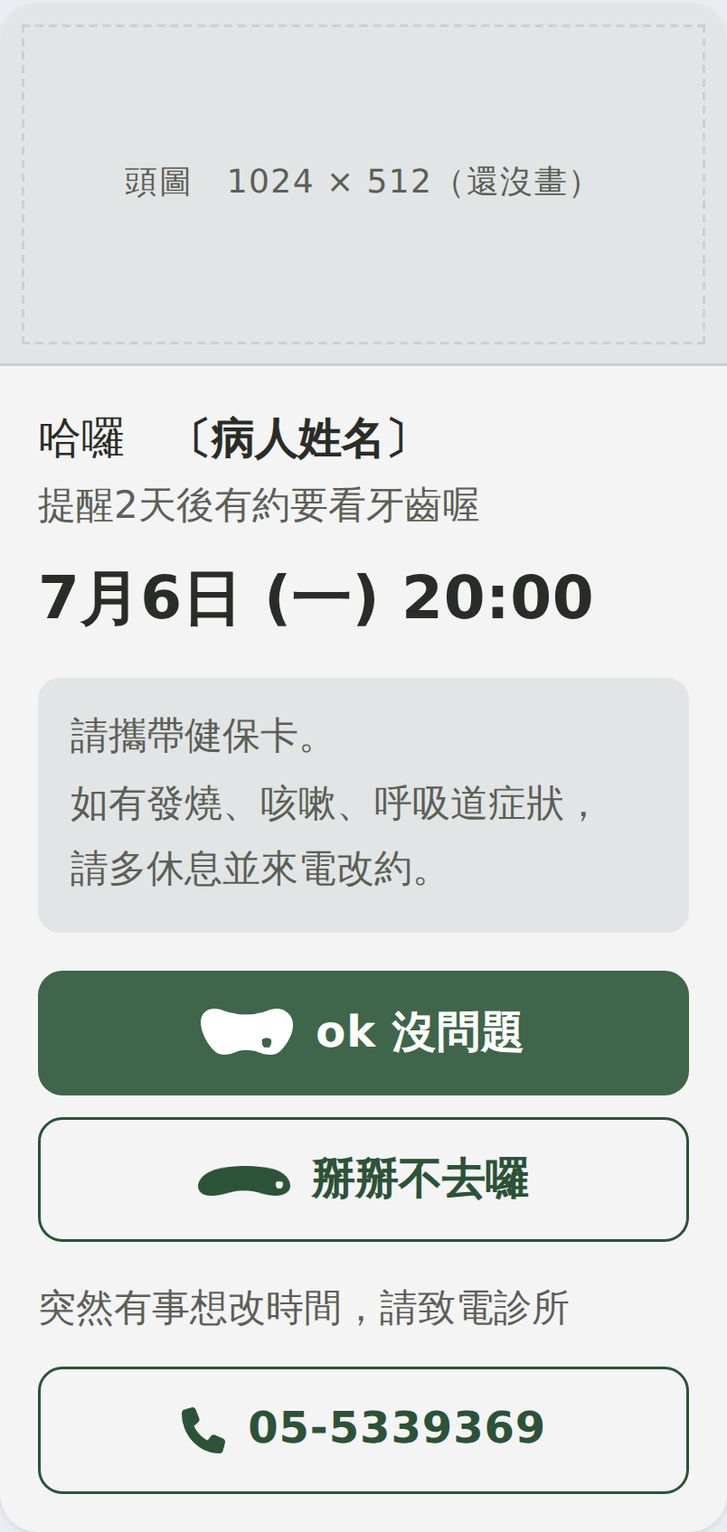
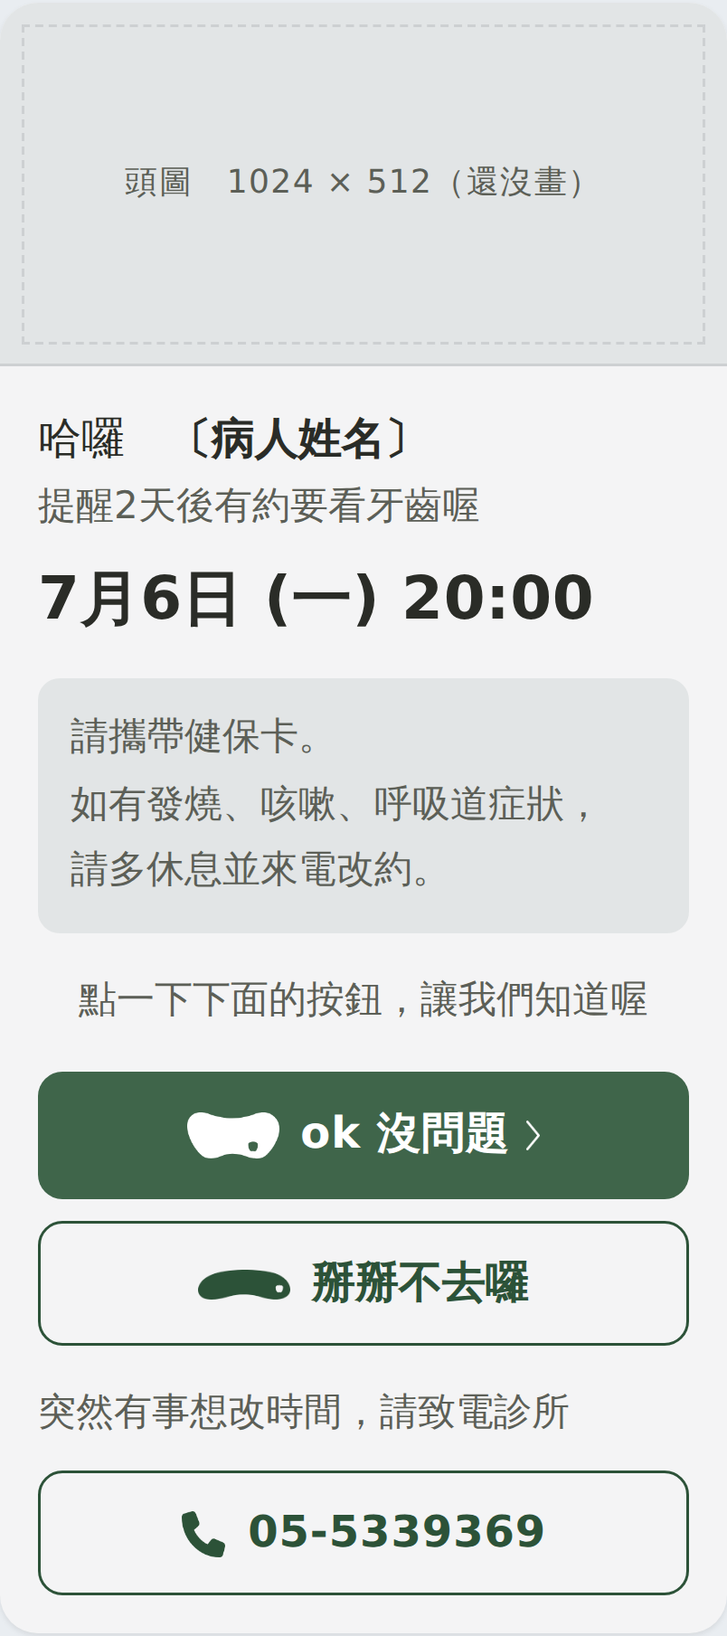
提醒卡第四輪：把「要點下去的感覺」拆成三條尺
使用者：「好像少了要病患點下去的感覺，原來的版本有說點擊回覆，
按鈕上也有手勢提示。」量出來是三件各自獨立的事，修一個不會治好
另外兩個：①有沒有一句話開口叫他點（現況有、我們拿掉了，影響最大）
②按鈕上的「往前走」記號（現況是 👉）③按鈕看起來像不像鈕
（現況是藥丸，我們是圓角方框，而方框在這一站是「框」的語彙）。

還有第四件而且畫面上補不回來：主鈕是「可點的 box」不是 Flex 的
button（button 放不進圖示，而他要 logo），box 沒有按壓效果——
「點下去的感覺」有一半是按下那一瞬間的回饋，那一半為了 logo 已經
換掉了。LINE 對可點的 box 會不會給按壓反白我們沒有實機驗過，
加進廠商那幾題；「主鈕的形狀」最後一格「真的按鈕（沒 logo）」
就是這個取捨，擺出來讓他比、不是建議。

角形用站上自己那一條（往下滑／回到最上面／繼續讀同一條）轉成朝右，
不打「›」——那個字在 Android 與 iOS 上長得不一樣。筆畫的形狀
getBBox() 量不到（不含 stroke），外框自己算；空圖的門檻從位元組
改成看墨佔多少。角形跟著字走不是跟著標誌走：16px 的字配 11px 高
→ 5.3px 寬。

現況那句話搬到 268px 會折出孤字「診 ↓」（三個寬度都是）——那句是在
診所端後台 348px 的框裡看的。

預設開在建議的那一組：601.5px、孤字 0、水平溢出 0、JS 錯誤 0，
仍比現況 615px 矮而且帶著頭圖。切換條收掉三把已定案的尺，
網址參數仍然吃得到。

Claude-Session: https://claude.ai/code/session_01UiTa6aiLj4tvM4QQAkTm2r

diff --git a/preview/line-remind/index.html b/preview/line-remind/index.html
@@ -166,6 +166,29 @@ h1{font-size:1rem;font-weight:700;letter-spacing:.02em}
   line-height:1.4}
 .pv-new .btn img{flex:none;display:block;width:34px}
 .pv-new .btn span{font-size:16px;font-weight:700;letter-spacing:.02em}
+/* ---- 「點下去」的三件事（2026-09-04 深夜第四輪）------------------------
+   使用者：「好像少了要病患點下去的感覺，原來的版本有說點擊回覆，按鈕上也有手勢提示」。
+   ⚠⚠ 拆開來是**三個各自獨立的量**（同第九節第 17 條那個淡出：一句話講到三件事）：
+     ① 有沒有一句話**開口叫他點**（現況有，我們拿掉了）
+     ② 按鈕上有沒有「往前走」的記號（現況是 👉）
+     ③ 按鈕**看起來像不像按鈕**（現況是藥丸，我們是圓角方框）
+   修一個不會治好另外兩個，所以切換條上是三條尺。 */
+.pv-new .cta{font-size:14px;line-height:1.7;color:var(--ink-soft);text-align:center;
+  margin-top:14px}
+/* 現況那一句：紅字、粗體、上下各一個箭頭。⚠ 對照用，站上不會這樣寫 */
+.pv-new .cta.asis{color:#d0021b;font-weight:700}
+/* 角形＝站上「往下滑／回到最上面」那顆轉成朝右，由 remind-marks.mjs 產。
+   ⚠ 高度跟著**字**走不是跟著標誌走（站上那一族是字高的 .58~.7）：
+     16px 的字配 11px 高，長寬比 0.4828 算出 5.3px 寬。 */
+.pv-new .btn .chev,
+.pv-new .nob .chev,
+.pv-new .tel .chev{flex:none;display:block;width:5.3px;height:11px;margin-left:-2px}
+/* 主鈕的三種形狀。⚠⚠ `real` 那一格是**真的 Flex button** —— 它有 LINE 內建的
+   按壓效果，但 **button 只有一個 label、放不了圖示**（第十一之二節），
+   所以那一格的 logo 一定會消失。這是取捨不是漏做。 */
+.pv-new .btn.pill{border-radius:30px;padding:16px 12px}
+.pv-new .btn.real{border-radius:9px;padding:14px 12px}
+.pv-new .btn.real img{display:none}
 /* 「掰掰不去囉」：2026-09-04 使用者指定**加 logo**（shape_r2c3 嘴巴倒過來）
    ＋ 字改成他自己寫的「掰掰不去囉」（原本是我擬的「我不能到」）。
    ⚠ 它是次要動作，和主鈕**對等**會把「請你確認」這件事稀釋掉 —— 所以做成
@@ -271,10 +294,10 @@ h1{font-size:1rem;font-weight:700;letter-spacing:.02em}
 <div class="pv-bar" id="pv-bar">
   <button class="fold" id="pv-fold" aria-expanded="true">收起</button>
   <div class="r"><span class="lb">版本</span><span id="sw-v"></span></div>
-  <div class="r" id="row-h"><span class="lb">頭圖</span><span id="sw-h"></span></div>
+  <div class="r" id="row-c"><span class="lb">叫他點的那句</span><span id="sw-c"></span></div>
+  <div class="r" id="row-g"><span class="lb">角形</span><span id="sw-g"></span></div>
+  <div class="r" id="row-s"><span class="lb">主鈕的形狀</span><span id="sw-s"></span></div>
   <div class="r" id="row-no"><span class="lb">掰掰不去囉</span><span id="sw-n"></span></div>
-  <div class="r" id="row-w"><span class="lb">24小時</span><span id="sw-w"></span></div>
-  <div class="r" id="row-k"><span class="lb">就診須知</span><span id="sw-k"></span></div>
 </div>
 
 <span class="pv-probe" id="pv-probe"></span>
@@ -357,10 +380,38 @@ h1{font-size:1rem;font-weight:700;letter-spacing:.02em}
        切到「不放圖」時它會回來，識別不會整個消失。 */
   var HERO = { y: { name: "預留位置" }, n: { name: "不放圖" } };
 
+  /* ---- 「點下去的感覺」三條尺（2026-09-04 深夜第四輪）------------------
+     ① 叫他點的那一句。⚠ 文字是**我擬的**，這張卡其餘每一個字都是你寫的，
+        這一句你要換就換（現況那句是廠商的，放在最後一格只當對照）。 */
+  var CTA = {
+    none: { name: "不放", text: "" },
+    a:    { name: "請點下面的按鈕回覆", text: "請點下面的按鈕回覆" },
+    b:    { name: "點一下…讓我們知道喔", text: "點一下下面的按鈕，讓我們知道喔" },
+    asis: { name: "現況那句", text: "\u2193 請點擊下方按鈕，回覆是否前往看診 \u2193" }
+  };
+  /* ② 按鈕上的「往前走」記號。角形＝站上那顆轉成朝右（remind-marks.mjs 產）。
+     ⚠ `hand` 那一格是現況的 👉，**對照用** —— 站上全站 0 個 emoji，面板會標出來。 */
+  var CHEV = {
+    none: { name: "不放" },
+    main: { name: "只有主鈕" },
+    all:  { name: "三顆都放" },
+    hand: { name: "主鈕用 👉" }
+  };
+  /* ③ 主鈕的形狀。⚠⚠ `real` ＝ 真的 Flex button：有 LINE 內建的按壓效果，
+     但 **button 放不了圖示**，所以 logo 會消失（第十一之二節）。 */
+  var SHAPE = {
+    box:  { name: "圓角方框" },
+    pill: { name: "藥丸" },
+    real: { name: "真的按鈕（沒 logo）" }
+  };
+
   /* ⚠⚠ 預設 wa="none"、nb="line"：2026-09-04 使用者指定「粉紅底整個拿掉」、
      「藍灰底整個拿掉」、取消鈕加 logo。24 小時那一段的尺**留著**（它是他自己
      帶進來的事實，要放回去按一下就有），但預設不出現。 */
-  var v = "new", nb = "line", wa = "none", kn = "two", hr = "y";
+  /* ⚠ 預設就開在**我建議的那一組**（叫他點的那一句 ＋ 主鈕的角形，形狀不動）——
+     要看回上一版你點頭的樣子，把「叫他點的那句」切到「不放」、角形切到「不放」。 */
+  var v = "new", nb = "line", wa = "none", kn = "two", hr = "y",
+      cta = "b", cv = "main", sh = "box";
 
   /* 網址參數（⚠ 正規式一定要寫 [a-z0-9]+，寫 [a-z]+ 會吃不到帶數字的值） */
   (function () {
@@ -372,6 +423,7 @@ h1{font-size:1rem;font-weight:700;letter-spacing:.02em}
     v  = (q.match(/[?&]v=(old|new)/) || [])[1] || v;
     nb = pick("n", NOB, nb); wa = pick("w", WARN, wa);
     kn = pick("k", KNOW, kn); hr = pick("h", HERO, hr);
+    cta = pick("c", CTA, cta); cv = pick("g", CHEV, cv); sh = pick("s", SHAPE, sh);
   })();
 
   /* 電話那一行在 Flex 裡**不會**自動變成可以撥的（純文字訊息才會）——
@@ -417,19 +469,46 @@ h1{font-size:1rem;font-weight:700;letter-spacing:.02em}
     if (kn !== "none") h += '<p class="box know">' + KNOW[kn].text + '</p>';
     if (wa === "box")  h += '<p class="box warn">' + WARN_TEXT + '</p>';
     if (wa === "line") h += '<p class="warnline">' + WARN_TEXT + '</p>';
-    /* 主鈕：可點的 box（Flex 的 button 放不了 logo），白色標誌 ＋「ok 沒問題」 */
-    h += '<span class="btn"><img src="../line-welcome/mark-white.png" alt="">'
-      +  '<span>ok 沒問題</span></span>';
+    /* ① 叫他點的那一句，排在主鈕正上方 */
+    if (cta !== "none")
+      h += '<p class="cta' + (cta === "asis" ? " asis" : "") + '">' + CTA[cta].text + '</p>';
+    /* 主鈕：可點的 box（Flex 的 button 放不了 logo），白色標誌 ＋「ok 沒問題」。
+       ⚠ `real` 那一格是真的 button，logo 由 CSS 藏起來（Flex 那邊是根本放不進去）。 */
+    var wc = '<img class="chev" src="mark-chev-white.png" alt="">';
+    var dc = '<img class="chev" src="mark-chev-deep.png" alt="">';
+    h += '<span class="btn' + (sh === "box" ? "" : " " + sh) + '">'
+      +  '<img src="../line-welcome/mark-white.png" alt="">'
+      +  '<span>ok 沒問題' + (cv === "hand" ? " \ud83d\udc49" : "") + '</span>'
+      +  (cv === "main" || cv === "all" ? wc : "") + '</span>';
     if (nb !== "drop") {
       h += '<span class="nob' + (nb === "text" ? " plain" : "") + '">'
-        +  '<img src="mark-nogo.png" alt=""><span>掰掰不去囉</span></span>';
+        +  '<img src="mark-nogo.png" alt=""><span>掰掰不去囉</span>'
+        +  (cv === "all" ? dc : "") + '</span>';
     }
     /* 「突然有事想改時間，請致電診所」＋ 電話鈕（2026-09-04 使用者指定）——
        ⚠ 這一句和上面那顆按鈕**不是二選一**，是兩件事接在一起：
          按鈕 ＝ 告訴我們你不會來；電話 ＝ 重新約時間。 */
     h += '<p class="telnote">突然有事想改時間，請致電診所</p>'
-      +  '<span class="tel"><img src="mark-tel.png" alt=""><span>' + TEL + '</span></span>';
+      +  '<span class="tel"><img src="mark-tel.png" alt=""><span>' + TEL + '</span>'
+      +  (cv === "all" ? dc : "") + '</span>';
     return h + '</div></div>';
+  }
+
+  /* 這張卡現在給了幾個「可以點」的線索。⚠ 這是**這一輪的判準**：
+     使用者說「少了要點下去的感覺」，那就要數得出來現在有幾個、加了之後有幾個。 */
+  function cues() {
+    var a = [];
+    if (cta !== "none") a.push("叫他點的那一句");
+    /* ⚠⚠ 主鈕切到「真的按鈕」時，**圖示一個都放不進去** —— logo 與角形一起消失
+       （Flex 的 button 只有一個文字標籤）。所以那時 ② 這條尺對主鈕是無效的。 */
+    if (cv === "hand") a.push("👉");
+    else if (cv === "main") a.push(sh === "real" ? "主鈕的角形（⚠ 真的按鈕放不進去）"
+                                                : "主鈕的角形");
+    else if (cv === "all") a.push(sh === "real" ? "另外兩顆的角形（⚠ 主鈕放不進去）"
+                                                : "三顆的角形");
+    if (sh === "pill") a.push("藥丸鈕");
+    if (sh === "real") a.push("真的 button（有按壓效果）");
+    return a;
   }
 
   /* ---- 量測 ---------------------------------------------------------- */
@@ -502,7 +581,7 @@ h1{font-size:1rem;font-weight:700;letter-spacing:.02em}
        ⚠ 現況那一張是照截圖重做的，沒有手動斷行，所以只對新版算。 */
     var self = {}, selfN = 0;
     if (v === "new") {
-      body.querySelectorAll(".hi,.lead,.dt,.box,.warnline,.btn,.nob,.telnote,.tel").forEach(function (el) {
+      body.querySelectorAll(".hi,.lead,.dt,.box,.warnline,.cta,.btn,.nob,.telnote,.tel").forEach(function (el) {
         (el.innerText || "").split("\n").forEach(function (x) {
           x = x.replace(/[ 　]/g, ""); if (x) { self[x] = 1; selfN++; }
         });
@@ -566,9 +645,16 @@ h1{font-size:1rem;font-weight:700;letter-spacing:.02em}
         + (box.height / vh * 100).toFixed(0) + "%</b>"
       + "　字數 <b>" + text.replace(/\s/g, "").length + "</b>"
       + "<br>emoji <b>" + emo.length + "</b>" + (emo.length ? "（" + emo.join(" ") + "）" : "")
-        + "　紅字 <b>" + body.querySelectorAll(".red").length + " 行</b>"
-        + (emo.length || body.querySelectorAll(".red").length
+        + "　紅字 <b>" + body.querySelectorAll(".red,.cta.asis").length + " 行</b>"
+        + (emo.length || body.querySelectorAll(".red,.cta.asis").length
             ? "" : " <span class='ok'>都是 0</span>")
+      /* ⚠ 「點下去的線索」現在有幾個 —— 這一輪要判斷的正是這一項，
+         所以面板直接數出來，不要讓他自己看。 */
+      + (v === "new"
+          ? "<br>點下去的線索 <b>" + cues().length + "</b> 個"
+            + (cues().length ? "：" + cues().join("、")
+                             : " <span class='no'>—— 沒有任何一句叫他點</span>")
+          : "<br>點下去的線索 <b>3</b> 個：叫他點的那一句、👉、藥丸鈕")
       + (v === "new"
           ? "<br>自己斷 <b>" + selfN + " 行</b>，你這台畫出 <b>" + ls.length + " 行</b>"
             + (ls.length - selfN > 0
@@ -648,24 +734,75 @@ h1{font-size:1rem;font-weight:700;letter-spacing:.02em}
     document.getElementById("pv-slot").innerHTML = v === "old" ? oldHtml() : newHtml();
     bar("sw-v", { old: { name: "Ⓐ 現況" }, new: { name: "Ⓑ 新版" } },
         function () { return v; }, function (k) { v = k; });
-    bar("sw-h", HERO, function () { return hr; }, function (k) { hr = k; });
+    bar("sw-c", CTA, function () { return cta; }, function (k) { cta = k; });
+    bar("sw-g", CHEV, function () { return cv; }, function (k) { cv = k; });
+    bar("sw-s", SHAPE, function () { return sh; }, function (k) { sh = k; });
     bar("sw-n", NOB, function () { return nb; }, function (k) { nb = k; });
-    bar("sw-w", WARN, function () { return wa; }, function (k) { wa = k; });
-    bar("sw-k", KNOW, function () { return kn; }, function (k) { kn = k; });
-    /* 現況那一張是廠商的，四把尺對它無效 —— 關掉而不是拿掉，
+    /* ⚠ 頭圖／24小時／就診須知那三把尺**從切換條上收掉了**（同 head-search 那一輪：
+       第一輪定案的收成寫死的值、讓位給第二輪的新尺，切換條不會愈長愈長）。
+       **網址參數 `h`／`w`／`k` 仍然吃得到**，要把 24 小時那一段放回去就開
+       `?w=box`。手機上一次只能給四條，第五條就超過一屏的 24%。 */
+    /* 現況那一張是廠商的，這幾把尺對它無效 —— 關掉而不是拿掉，
        不然切回新版時整條會跳高一截。 */
-    ["row-h", "row-no", "row-w", "row-k"].forEach(function (id) {
+    ["row-c", "row-g", "row-s", "row-no"].forEach(function (id) {
       document.getElementById(id).className = "r" + (v === "old" ? " off" : "");
     });
     var q = v === "old" ? "?v=old"
-      : "?v=new&h=" + hr + "&n=" + nb + "&w=" + wa + "&k=" + kn;
+      : "?v=new&h=" + hr + "&n=" + nb + "&w=" + wa + "&k=" + kn
+        + "&c=" + cta + "&g=" + cv + "&s=" + sh;
     history.replaceState(null, "", location.pathname + q);
     measure();
     document.getElementById("pv-note").innerHTML = note();
   }
 
   function note() {
-    return "<b>這一輪照你 2026-09-04 第三次交代的六件改的，逐字：</b>"
+    return "⚠⚠⚠ <b>你說的「少了要點下去的感覺」，量出來是<u>三件各自獨立的事</u>，"
+      + "所以切換條上是三條尺 —— 修一個不會治好另外兩個。</b>"
+      + "現況那張卡三件都做了，我們上一版三件都沒有："
+      + "<br>① <b>沒有一句話開口叫他點。</b>現況寫「請點擊下方按鈕，回覆是否前往看診」。"
+      + "⚠ 這一件我認為<b>影響最大</b>：這一則的工作就是「請你回覆」，"
+      + "而<b>按鈕再像按鈕，也不如一句話直接開口</b>。"
+      + "<br>② <b>按鈕上沒有「往前走」的記號。</b>現況是 👉。"
+      + "<br>③ <b>按鈕的形狀。</b>現況是<b>藥丸</b>（一看就是鈕），我們是圓角方框 —— "
+      + "而方框在這一站是<b>「框」的語彙</b>（頁首那三個玻璃框、線稿的框），"
+      + "框不見得等於「可以按」。"
+      + "<hr>"
+      + "⚠⚠⚠ <b>還有第四件，而且它畫面上補不回來，我必須先講：</b>"
+      + "<br><b>我們的按鈕不是 Flex 的 <code>button</code>，是一個「可以點的 box」</b> —— "
+      + "因為 <b>Flex 的 button 只有一個文字標籤、放不進圖示</b>，"
+      + "而你要按鈕上有 logo。"
+      + "<br>代價就寫在規格裡：<b>box 沒有 button 內建的按壓效果</b>。"
+      + "所以「點下去的感覺」有一半是<b>按下去那一瞬間的回饋</b>，"
+      + "那一半我們為了 logo 已經換掉了。"
+      + "<br>⚠ 老實說：<b>LINE 新版對可點的 box 到底會不會給一層淡淡的按壓反白，"
+      + "我們沒有在實機上驗過</b>，官方文件也沒寫。"
+      + "<b>這一題按一下就知道，是廠商那邊測得到的事</b> —— 值得問。"
+      + "<br>「主鈕的形狀」那條尺最後一格<b>「真的按鈕（沒 logo）」</b>就是這個取捨："
+      + "拿回按壓效果、失去 logo。<b>擺出來讓你比，不是建議。</b>"
+      + "<hr>"
+      + "<b>我的建議：①＋②，③ 維持圓角方框。</b>"
+      + "<br>・<b>①</b> 加那一句 —— 它是這一則的目的，而且<b>不佔按鈕的版面</b>。"
+      + "<br>・<b>②</b> 用<b>角形</b>不要用 👉。那顆角形是<b>站上自己的記號</b>："
+      + "首頁「往下滑」、「回到最上面」、文章卡的「繼續讀」用的都是同一條，"
+      + "這裡只是<b>轉成朝右</b>（<code>remind-marks.mjs</code> 產的，不是打一個「›」——"
+      + "那個字在 Android 與 iOS 上長得不一樣）。"
+      + "⚠ 站上全站 <b>emoji 0 個</b>，👉 那一格是<b>對照用的</b>，面板會把它數出來。"
+      + "<br>・<b>③</b> 藥丸那一格你可以比比看，但 <b>2026-08-15 你自己說過"
+      + "「圓圈跟網站主題不搭，主題是方框導圓」</b> —— 所以我沒有預設它。"
+      + "<hr>"
+      + "⚠ <b>那一句的文字是我擬的</b>（兩個寫法），這張卡其餘每一個字都是你寫的 —— "
+      + "<b>要換就換</b>。最後一格是現況那句（紅字 ＋ 上下箭頭），放著只當對照。"
+      + "<br>⚠ 角形的尺寸是算出來的：<b>跟著字走不是跟著標誌走</b>"
+      + "（站上那一族是字高的 .58~.7）—— 16px 的字配 <b>11px 高</b>，"
+      + "長寬比 0.4828 算出 <b>5.3px 寬</b>。"
+      + "<hr>"
+      + "⚠ <b>切換條上那三把已經定案的尺（頭圖／24 小時／就診須知）收掉了</b>，"
+      + "手機上一次只放得下四條。<b>網址參數還吃得到</b>："
+      + "<code>?w=box</code> 就把 24 小時那一段放回來。"
+      + "<hr>"
+      + "<b>下面是前三輪的紀錄。</b>"
+      + "<hr>"
+      + "<b>你 2026-09-04 第三次交代的六件，逐字：</b>"
       + "<br>①「攜帶健保卡」→「<b>請</b>攜帶健保卡」"
       + "<br>②「有發燒…請多休息，並來電改約」→「<b>如</b>有發燒、咳嗽、呼吸道症狀，"
       + "請多休息<b>並</b>來電改約」（那個逗號跟著你的寫法拿掉了）"

diff --git a/CLAUDE.md b/CLAUDE.md
@@ -2298,7 +2298,7 @@ topics/<spec>/         ← 產出。**不要手改**，重跑就沒了
 | 招呼圖卡的頭圖 | `drafts/line-hello/`（`generate.mjs`／`bubble.mjs`／`README.md`）→ `preview/line-hello/hero-zenmaru.jpg`，規格頁 `/preview/line-hello/`。✅ 定案 |
 | **綁定完成** | ✅ **2026-09-04 定稿**（使用者：「最後定稿的是這個」）：**Ⓗ 你整理的・圖卡 ＋ 有頭圖 ＋ 改約那一塊用淡藍 `.10` 的淡底**。Flex 的 JSON 在 **`drafts/channels/bind-done-card.json`**，規格頁 `/preview/line-bind-done/`（**切換條已拿掉**），守門 **`node drafts/channels/check-bind-done.mjs`**，圖片兩張（`node drafts/channels/bind-done-png.mjs`，加 `--chat` 出第二張）：`shot-bind-done.png`（卡片本身，804×1857，3×）與 **`shot-bind-done-chat.png`**（**在 LINE 裡長什麼樣的模擬**，1206×2427，3×）。⚠ 模擬那張要用 **430 寬**拍 —— 429 以下手機框會貼齊頁面兩邊、圓角與左右框線被拿掉。⚠ **換視窗寬度截圖之前要先量「要展示的那個東西有沒有跟著變」**：實測 390 與 430 卡片都是 **268.0px**，只有周邊留白差 12px（第 **19-21** 節）。⚠ **Ⓖ 沒有真的落選** —— 它是「廠商送不出 Flex Message」時的退路（同一份內容一字不差），規格頁最底下仍然畫著它。⚠⚠ **兩塊淡底在 JSON 裡要寫合成後的實色**（警示 `#EEE5E6` ＝ 磚紅 .09、改約 `#E2E8EF` ＝ 淡藍 .10），不要寫半透明。⚠ **沒有拆成 body ＋ footer**（招呼卡那樣拆是因為中間有 separator，這一張兩塊方塊之間刻意沒有分隔線）。推導在第 **19-20** 節。以下是走到定稿的過程 —— **提案中**：`/preview/line-bind-done/`（**八案**，2026-09-03 開；**Ⓖ／Ⓗ 是使用者 2026-09-04 自己整理的那一份**，Ⓖ 純文字、Ⓗ 同一份做成圖卡，帶進三件新事實：提醒**要回覆確認**、**24 小時沒回應系統會自動取消**並遞補、家人綁定**要洽櫃檯**）。推導在 `drafts/channels/README.md` **第十九節**（09-04 那一輪在 **19-12**），定稿文字在 `drafts/line-auto-reply/README.md` 第 24-2 節「貳」。⚠ 使用者挑完才寫 Flex 的 JSON。⚠⚠ **時間的說法 2026-09-04 定案「看診前 48 小時」**，切換條上那一排已經收掉；**但招呼圖卡仍然寫「看診前2天」**（使用者自己逐字寫的、已定案），兩則目前不一致，**要統一得他點頭**。⚠ 這個 48 小時和「看診日 2 天前（不含假日）」是兩個不同的數字（提醒時機 vs 改約期限），**不要順手改成一致**。⚠⚠ 2026-09-04 再兩件（第 **19-13** 節）：「這裡沒有專人即時回覆訊息」**搬到改約那一段前面**（它是「為什麼要打電話」的前提）；24 小時那一段接上一把**強調**的尺（`?e=`），**兩種容器的四格不一樣** —— LINE 的**純文字訊息沒有粗體也沒有顏色**，只剩空行與記號，Flex 圖卡才做得到加粗／換色／淡底方塊。⚠⚠ 2026-09-04 再兩件（第 **19-15** 節）：**圖卡那一側定案「淡底方塊」**（切換條上收掉、寫死；純文字那一側還沒定案、那一排還在）；**改約那一句換成使用者的寫法**「約診更改或取消，最晚請於看診日前 2 天（不含假日）、於診所開診時段來電變更」——「最晚」把期限講死，**「開診時段」取代「週一至週五」**（國定假日休不休診還沒問到，寫「開診時段」就不必替診所答那一題）。⚠ 其餘六案仍是舊寫法，**刻意沒動**，等他挑完哪一案再統一。⚠⚠ 2026-09-04 再一件（第 **19-16** 節）：**改約那一段也做成淡底方塊**，底色四選一（紙灰／品牌綠／深綠松／同上面），**兩塊之間那條分隔線拿掉了**。⚠⚠ **綠與深綠松是 `.16` 不是 `.09`** —— 量過，九分之一濃時四個底色全部落在 **1.1 階**之內（L\* 90.6~91.7），**四格長得一模一樣、那把尺沒有意義**；`.16` 才讀得出是綠的，代價是比上面那塊磚紅重約 4 階。**通則：一把尺給出去之前先算四格彼此差多少，差不出來的尺比沒有尺還糟**。⚠⚠ 2026-09-04 再三件（第 **19-17** 節）：**加了淡藍、深綠松那一格拿掉**（深綠松 `.16` 是 L\* 86.2・彩度 2.5，和品牌綠的 87.6・2.7 分不出來）；淡藍**不能用官方色票那支** `#3C596B`（`.16` 彩度只剩 2.5，讀起來是灰的），取的是**齒顎矯正那支套色** `#4478b5`（`.16` 彩度 6.3，站上唯一淡開之後還讀得出是藍的）——**已知取捨：那是矯正的顏色**，但這一則不在站上也不在任何科別頁裡，不會和標記撞在一起。**通則的第二半：每一格還要撐得起它自己的名字，判準是彩度不是色相。**⚠ **數字前後那幾個半形空格拿掉了**（我照站上內文的習慣加的，他自己寫的那一份沒有），「（不含假日）」的**全形括號換成半形**（全形一組吃掉約 19px）。⚠⚠ **Ⓗ 那兩段之間的空行換成段落間距**：`\n\n` 是一整行 **24.5px**，拆成兩個 `text` ＋ 一個 `margin` 是 **8px**。**通則：Flex 裡兩段的距離有兩把工具，不要只會用空行**（`margin` 有 xs 4 ~ xxl 24 六階）；**Ⓖ 純文字那一側沒有這把工具，只有空行**。⚠⚠ 2026-09-04 再兩件（第 **19-18** 節）：**淡藍收到 `.10`**（使用者：「淡藍色看過去比上面的淡紅色還濃　要調成一樣的」）——「一樣濃」＝ **兩塊合成到卡色之後的 L\* 相同**，基準是磚紅 `.09` 的 L\* 91.6，反解出 a = .101。⚠⚠⚠ **而只有藍做得到，品牌綠與深綠松兩格因此都拿掉了**：壓到同一個 L\* 之後剩下的彩度是**淡藍 4.06**／磚紅 3.29／官方藍 1.50／品牌綠 1.37／深綠松 1.19，而**紙灰自己就是 1.18** ——「等重的綠」畫出來就是紙灰那一格。尺剩三格（紙灰／淡藍 .10／同上面）。**通則的第三半：「看得出顏色」與「和旁邊等重」是兩個要求，只有夠飽和的色相同時滿足得了；判斷方法是把每一支色壓到目標 L\* 再看誰的彩度還在。**⚠ **Ⓗ 那一對全形「」拿掉了，改成把選單名加粗**（使用者：「「」的全形也有很大的空格」）——`「`／`」` 各佔一整個全形字寬但墨只有角落那一撇，一對吃掉 **28.3px**（那一行 183.8 → 155.5）。Flex 就是一個 `span` 加 `weight: bold`，顏色不動。⚠⚠ **Ⓖ 純文字那一對留著，不是漏改** —— 純文字沒有粗體，拿掉引號就標示不出那是選單名。⚠ 實作：`<b>` **不可以寫進資料裡**（`spec()` 要拿同一份字串比對孤字），資料維持純文字、多一個 `strong` 欄位，`render()` 那一層才包。⚠ 2026-09-04 **存成圖片了**（第 **19-19** 節）：`node drafts/channels/bind-done-png.mjs` → `preview/line-bind-done/shot-card-{pa,bl,br}.png`（圖卡三格底色）、`shot-text.png`（純文字泡泡）、`shot-cards.png`（三格並排）。⚠⚠ **出在 `preview/` 不是 `drafts/`** —— drafts 進不了 `_site`，而使用者要的是「也存在網路上」（招呼卡那支 `card-png.mjs` 出在 drafts/，兩支落點不同是刻意的）。⚠⚠ **拍的是提案頁自己那張卡**，所以**那一頁改了就要重跑**，不然圖會開始說謊 |
 | 綁定完成的頭圖 | ✅ **2026-09-03 第四版定案**（使用者：「很不錯，就用這個圖吧」）—— 成品 `preview/line-bind-done/hero-bind.jpg`（**1024×512**，`node drafts/bind-done-hero-crop.mjs`，原檔 `drafts/bind-done-v4-src.jpg`），已接進提案頁 Ⓑ 那一案。定稿提示詞與逐輪推導在 **`drafts/line-bind-done-prompt.md`** —— 〈創造亞當〉的診間版（Gemini 出圖，使用者自己跑，走了四版）。⚠⚠⚠ **不要把原作那個「上帝在上」抹平成兩人等高** ——第一版就是這樣被退回的（寓意沒了，而且兩個成年人同高對指會被讀成醫病關係不單純）：**一側是一團人、飄著、比較高，另一側一個人躺著、比較低**，這個不對等就是那張畫的梗。⚠ 但**不對等只能靠位置給、不可以靠肌肉張力給** —— 第三版把病患的手寫成鬆垮的，整個人看起來像喝醉（＝麻醉或鎮靜的聯想）。⚠ 臉一律照站上那一套（有膚色、眉毛、鼻子、有表情的嘴），**不隨風格參考圖走**。逐輪紀錄與六條驗收在那一份，通則在 ILLUSTRATION.md 第十三節 |
-| **提醒卡（看診前 48 小時）** | ⏳ **2026-09-04 開了提案頁 `/preview/line-remind/`（兩案 ＋ 四把尺，還沒定案）**。⚠⚠ **文案 2026-09-04 晚間換成使用者自己寫的**（哈囉／病人名字／提醒2天後有約要看牙齒喔／日期／按鈕「ok 沒問題」＋logo／須知只留兩條），**加了頭圖但圖還沒畫、先預留位置**。⚠⚠⚠ **取消鈕那一題的分析結論：建議留，但維持文字鈕** —— 真正重要的理由只有一個：**拿掉之後「來不了」和「沒看到訊息」在診所眼裡會變成同一件事**（24 小時沒回應一律自動取消），而診所對這兩種人的處理本來就不一樣（重要療程會打電話追、定期檢查就當他不想來）—— 那顆按鈕是目前唯一分得出來的東西。次要理由：誤按沒有回頭路。**「兩顆會稀釋主要動作」成立，所以留成文字鈕不是實心第二顆**（現況那一顆本來就是文字鈕，那一點現況是對的）。⚠⚠ **「須知寫來電改約、底下又有按鈕」不是二選一** —— 解法是把兩件事講成兩件事：**按鈕＝告訴我們你不會來、電話＝重新約時間**，寫成一前一後就不打架了。**通則：兩個管道看起來打架時，先問它們是不是同一個動作。**⚠⚠⚠ **「2天後」有事實風險**：真截圖那一則是 7/3（五）送、約診 7/6（一）＝ **3 天**，寫死「2天後」對那位病人是錯的，週一週二的約診都會對不上。三條路（維持但要廠商保證固定／**把天數拿掉**，日期本來就在下一行且最大／讓系統填）已經列給他挑 —— **沒有自己改掉他的字**。**通則：使用者寫的字裡有一個會出錯的事實時，照寫、把證據攤開、給選項，不要自己改也不要不講。**⚠⚠ **他把「戴口罩」拿掉了**（現況第 1 條有），照做了但那是**政策改變不是文案精簡，要醫師點頭**。⚠ **主鈕做成可點的 box 不是 `button`**（Flex 的 button 不支援圖示），logo 用招呼卡已產好的 `mark-white.png`（34px），沒有另產一份。⚠ **有頭圖就把頂端那行診所名拿掉**（同綁定完成），切到不放圖它會回來。⚠⚠ **開場那一句要拆兩行**（「哈囉　〔名字〕」／「提醒2天後…」）—— 他原句把變數夾在中間，名字一長會把「喔」擠成孤字；拆開之後 8 個字的名字都還在寬度內。**用字一個都沒改。**⚠ 量到：現況 615px(73%)／新版全留**含頭圖 789px(94%)**／全砍 378px(45%)，頭圖自己就 134px。⚠⚠ 頭圖畫的時候有一個和綁定完成不一樣的條件：**這一則每次約診都送一次，同一個人一年看很多次 —— 要耐看，不要有太強的梗**。⚠⚠ 這一頁是使用者約好要定**版型與那顆確認的按鈕**的地方（第 19-12 節），定完再回頭看綁定完成那一則要不要多寫一句。推導在 `drafts/channels/README.md` **第二十節**。⚠⚠⚠ **`drafts/channels/reminder-card.json` 是 2026-09-02 的舊版，不要拿給廠商** —— 它沒有 24 小時那一段、改約那句是舊寫法、日期還帶年份；**使用者挑完才會重寫**。⚠⚠ **24 小時自動取消那件事是「這一張卡」的事**：那 24 小時是從這一則送出的那一刻開始算的，綁定完成那一則只是先告訴他有這回事 —— 所以非寫在提醒卡上不可，不然病人是在不知情的狀態下被計時。⚠⚠ **現況那一張是從使用者 2026-09-04 的真截圖逐像素量出來重做的**（內文 16px、姓名與日期 22px、內距 22px、標題列 43.7、按鈕 60、「⚠ 就診須知 ⚠」**靠右不是置中**）——⚠⚠⚠ **第一版是「照描」的，字級全部猜小了（內文猜成 14、內距猜成 13），把現況量成 438px，結論整個錯**。**通則：照截圖描一份和量一份是兩件事** —— 描出來的很像，數字全錯，而後面每一個判斷都建立在那些數字上。重量之後：現況 615px（73%）、新版全留 696px（82%）、全砍 460px（55%），**新版只多 81px**。⚠⚠⚠ **那張截圖是診所端的後台不是病人手機**（標題是病人名字、有「使用手動聊天」與「已讀」），所以它的卡片 348px **不是病人看到的寬度**；⚠ 而 **268 這個數字我們從來沒有在病人手機上量過**（是招呼卡那一輪的工作值）—— 方向是安全的（真的更寬只是保守），但**要一張病人手機的截圖才收得掉**。⚠⚠⚠ **它不是 48 小時送的**：截圖上 7/3（五）送、約診 7/6（一）＝ 3 天。48 小時前是週六、診所沒開 —— 可能是**系統會避開休診日**（那 19-12 那題有一半有答案了），也可能是**固定 3 天前**。**一個樣本推不出通則，要再看一兩則不同星期的**，或直接看後台排程。⚠ 順帶：協議期限是 7/2（四），7/3 送仍然晚一個開診日 —— 8-1 那個矛盾還在，只是沒那麼嚴重。⚠⚠ **有變數的那一行不能手動斷行**（`{{patient}}` 是系統填的）—— 做法是把「提醒您，」單獨一行、讓變數那一行從行首開始，名字 8 個字以內都不會折。⚠ 日期只要求兩件（拿掉年份、月日改中文），**括號維持廠商現在的半形** —— 要求的改動愈小愈可能真的改到。⚠ 「沒有專人＋改約期限＋電話」那一整塊**逐字沿用綁定完成那一則**（淡藍 `.10`），同一件事兩則用同一組字。⚠ 圖三張 `node drafts/channels/remind-png.mjs`（加 `--old`／`--chat`），**拍的是提案頁自己那張卡，那一頁改了就要重跑**。⚠ 時機**維持 48 小時**（第 15-9 節已結案，不要再提拆兩次或用開診日算）。時間換算 `timing.mjs`。⚠⚠⚠ **2026-09-04 深夜第三輪：兩塊淡底整個拿掉、兩顆新按鈕**（第 **20-12** 節）——使用者六件逐字：請攜帶健保卡／如有發燒…請多休息並來電改約／**粉紅底整個拿掉**／取消鈕**加 logo**（shape_r2c3 嘴巴倒過來）／新增「臨時有事須改約，請致電診所」＋**電話鈕**／**藍灰底整個拿掉**；稍晚兩件：**次要那顆的字改成他寫的「掰掰不去囉」**（原本是我擬的「我不能到」）、**電話鈕上面那一句改成「突然有事想改時間，請致電診所」**（原本是我擬的「臨時有事須改約」）。⚠⚠ 至此**這張卡上每一個字都是使用者自己寫的**，我擬的兩處都被換掉了，方向是同一個：**「須」是規定的口氣、「改約」是診所的行話**，他的版本是病人自己會講的話。**通則：我們寫得出正確的句子，寫不出他那種口氣 —— 文案的最後一哩要留給他。**⚠⚠⚠ **「牙洞怎麼調」的答案是不必調** —— 那顆標誌是單一路徑、洞靠 `fill-rule: evenodd` 挖的，**整張上下翻**（繞自己 bbox 中線）洞就跟著翻到右葉下半、仍然被包著；**只翻外框、洞留原位的話，洞會落在形狀外面、靜靜地消失而且不報錯**。產生器 `remind-marks.mjs` 因此加了守門（逐列數「被墨包住的透明像素」，<30 就 throw，實測 1502 ✓）。⚠ **尺寸是算出來的不是挑的**：主鈕那顆 34px 寬→高 16.8，所以 **nogo 也給 34px**（高 11.0）、**話筒給 16.8px 寬**（＝同高），三顆才像一組。⚠⚠ **取消鈕做成線框鈕不是第二顆綠鈕** —— 「兩顆會稀釋主要動作」成立，所以同框同 logo、但底是空的。⚠⚠⚠ **拿掉那兩塊各帶走一件事實，已經寫在頁面底下給他看**：粉紅底帶走「24 小時沒回應會自動取消並遞補」（**那 24 小時是從這一則送出算的，拿掉之後病人是在不知情的狀態下被計時**；給了兩個補救、**那把尺留著**、沒有自己加回去）；藍灰底帶走「沒有專人」與「看診日前 2 天（不含假日）」——**後者拿掉其實是對的**（這張卡 48 小時才送，期限那時已經過了，它的家是綁定完成那一則）。⚠⚠ **電話做成按鈕不違反 09-04 那條通則** —— 那一條禁的是「說明句裡的號碼穿按鈕的衣服」，而這裡上一句「請致電診所」本身就是叫他現在打。**通則：判斷一個東西該不該做成按鈕，看它上一句話。**⚠ 上一輪那句 `fine`（按了我們會打電話）拿掉了 —— 現在是「請致電診所」在做同一件事，留著會兩句搶同一個位置。⚠ 量測（430／393／390／375／360）：卡片 268.0、高 **563.8**、孤字 0、水平溢出 0、JS 錯誤 0、最寬一行 205.2（可用 240）、八個對比 0 個不過（主鈕 6.62／兩顆線框鈕 8.06／那一句 5.92）、切換條 24.0%／收起 5.1%。⚠⚠ **新版現在比現況矮**（563.8 vs 615）**而且還帶著頭圖** ——上一輪「只多 81px」那句作廢 |
+| **提醒卡（看診前 48 小時）** | ⏳ **2026-09-04 開了提案頁 `/preview/line-remind/`（兩案 ＋ 四把尺，還沒定案）**。⚠⚠ **文案 2026-09-04 晚間換成使用者自己寫的**（哈囉／病人名字／提醒2天後有約要看牙齒喔／日期／按鈕「ok 沒問題」＋logo／須知只留兩條），**加了頭圖但圖還沒畫、先預留位置**。⚠⚠⚠ **取消鈕那一題的分析結論：建議留，但維持文字鈕** —— 真正重要的理由只有一個：**拿掉之後「來不了」和「沒看到訊息」在診所眼裡會變成同一件事**（24 小時沒回應一律自動取消），而診所對這兩種人的處理本來就不一樣（重要療程會打電話追、定期檢查就當他不想來）—— 那顆按鈕是目前唯一分得出來的東西。次要理由：誤按沒有回頭路。**「兩顆會稀釋主要動作」成立，所以留成文字鈕不是實心第二顆**（現況那一顆本來就是文字鈕，那一點現況是對的）。⚠⚠ **「須知寫來電改約、底下又有按鈕」不是二選一** —— 解法是把兩件事講成兩件事：**按鈕＝告訴我們你不會來、電話＝重新約時間**，寫成一前一後就不打架了。**通則：兩個管道看起來打架時，先問它們是不是同一個動作。**⚠⚠⚠ **「2天後」有事實風險**：真截圖那一則是 7/3（五）送、約診 7/6（一）＝ **3 天**，寫死「2天後」對那位病人是錯的，週一週二的約診都會對不上。三條路（維持但要廠商保證固定／**把天數拿掉**，日期本來就在下一行且最大／讓系統填）已經列給他挑 —— **沒有自己改掉他的字**。**通則：使用者寫的字裡有一個會出錯的事實時，照寫、把證據攤開、給選項，不要自己改也不要不講。**⚠⚠ **他把「戴口罩」拿掉了**（現況第 1 條有），照做了但那是**政策改變不是文案精簡，要醫師點頭**。⚠ **主鈕做成可點的 box 不是 `button`**（Flex 的 button 不支援圖示），logo 用招呼卡已產好的 `mark-white.png`（34px），沒有另產一份。⚠ **有頭圖就把頂端那行診所名拿掉**（同綁定完成），切到不放圖它會回來。⚠⚠ **開場那一句要拆兩行**（「哈囉　〔名字〕」／「提醒2天後…」）—— 他原句把變數夾在中間，名字一長會把「喔」擠成孤字；拆開之後 8 個字的名字都還在寬度內。**用字一個都沒改。**⚠ 量到：現況 615px(73%)／新版全留**含頭圖 789px(94%)**／全砍 378px(45%)，頭圖自己就 134px。⚠⚠ 頭圖畫的時候有一個和綁定完成不一樣的條件：**這一則每次約診都送一次，同一個人一年看很多次 —— 要耐看，不要有太強的梗**。⚠⚠ 這一頁是使用者約好要定**版型與那顆確認的按鈕**的地方（第 19-12 節），定完再回頭看綁定完成那一則要不要多寫一句。推導在 `drafts/channels/README.md` **第二十節**。⚠⚠⚠ **`drafts/channels/reminder-card.json` 是 2026-09-02 的舊版，不要拿給廠商** —— 它沒有 24 小時那一段、改約那句是舊寫法、日期還帶年份；**使用者挑完才會重寫**。⚠⚠ **24 小時自動取消那件事是「這一張卡」的事**：那 24 小時是從這一則送出的那一刻開始算的，綁定完成那一則只是先告訴他有這回事 —— 所以非寫在提醒卡上不可，不然病人是在不知情的狀態下被計時。⚠⚠ **現況那一張是從使用者 2026-09-04 的真截圖逐像素量出來重做的**（內文 16px、姓名與日期 22px、內距 22px、標題列 43.7、按鈕 60、「⚠ 就診須知 ⚠」**靠右不是置中**）——⚠⚠⚠ **第一版是「照描」的，字級全部猜小了（內文猜成 14、內距猜成 13），把現況量成 438px，結論整個錯**。**通則：照截圖描一份和量一份是兩件事** —— 描出來的很像，數字全錯，而後面每一個判斷都建立在那些數字上。重量之後：現況 615px（73%）、新版全留 696px（82%）、全砍 460px（55%），**新版只多 81px**。⚠⚠⚠ **那張截圖是診所端的後台不是病人手機**（標題是病人名字、有「使用手動聊天」與「已讀」），所以它的卡片 348px **不是病人看到的寬度**；⚠ 而 **268 這個數字我們從來沒有在病人手機上量過**（是招呼卡那一輪的工作值）—— 方向是安全的（真的更寬只是保守），但**要一張病人手機的截圖才收得掉**。⚠⚠⚠ **它不是 48 小時送的**：截圖上 7/3（五）送、約診 7/6（一）＝ 3 天。48 小時前是週六、診所沒開 —— 可能是**系統會避開休診日**（那 19-12 那題有一半有答案了），也可能是**固定 3 天前**。**一個樣本推不出通則，要再看一兩則不同星期的**，或直接看後台排程。⚠ 順帶：協議期限是 7/2（四），7/3 送仍然晚一個開診日 —— 8-1 那個矛盾還在，只是沒那麼嚴重。⚠⚠ **有變數的那一行不能手動斷行**（`{{patient}}` 是系統填的）—— 做法是把「提醒您，」單獨一行、讓變數那一行從行首開始，名字 8 個字以內都不會折。⚠ 日期只要求兩件（拿掉年份、月日改中文），**括號維持廠商現在的半形** —— 要求的改動愈小愈可能真的改到。⚠ 「沒有專人＋改約期限＋電話」那一整塊**逐字沿用綁定完成那一則**（淡藍 `.10`），同一件事兩則用同一組字。⚠ 圖三張 `node drafts/channels/remind-png.mjs`（加 `--old`／`--chat`），**拍的是提案頁自己那張卡，那一頁改了就要重跑**。⚠ 時機**維持 48 小時**（第 15-9 節已結案，不要再提拆兩次或用開診日算）。時間換算 `timing.mjs`。⚠⚠⚠ **2026-09-04 深夜第三輪：兩塊淡底整個拿掉、兩顆新按鈕**（第 **20-12** 節）——使用者六件逐字：請攜帶健保卡／如有發燒…請多休息並來電改約／**粉紅底整個拿掉**／取消鈕**加 logo**（shape_r2c3 嘴巴倒過來）／新增「臨時有事須改約，請致電診所」＋**電話鈕**／**藍灰底整個拿掉**；稍晚兩件：**次要那顆的字改成他寫的「掰掰不去囉」**（原本是我擬的「我不能到」）、**電話鈕上面那一句改成「突然有事想改時間，請致電診所」**（原本是我擬的「臨時有事須改約」）。⚠⚠ 至此**這張卡上每一個字都是使用者自己寫的**，我擬的兩處都被換掉了，方向是同一個：**「須」是規定的口氣、「改約」是診所的行話**，他的版本是病人自己會講的話。**通則：我們寫得出正確的句子，寫不出他那種口氣 —— 文案的最後一哩要留給他。**⚠⚠⚠ **「牙洞怎麼調」的答案是不必調** —— 那顆標誌是單一路徑、洞靠 `fill-rule: evenodd` 挖的，**整張上下翻**（繞自己 bbox 中線）洞就跟著翻到右葉下半、仍然被包著；**只翻外框、洞留原位的話，洞會落在形狀外面、靜靜地消失而且不報錯**。產生器 `remind-marks.mjs` 因此加了守門（逐列數「被墨包住的透明像素」，<30 就 throw，實測 1502 ✓）。⚠ **尺寸是算出來的不是挑的**：主鈕那顆 34px 寬→高 16.8，所以 **nogo 也給 34px**（高 11.0）、**話筒給 16.8px 寬**（＝同高），三顆才像一組。⚠⚠ **取消鈕做成線框鈕不是第二顆綠鈕** —— 「兩顆會稀釋主要動作」成立，所以同框同 logo、但底是空的。⚠⚠⚠ **拿掉那兩塊各帶走一件事實，已經寫在頁面底下給他看**：粉紅底帶走「24 小時沒回應會自動取消並遞補」（**那 24 小時是從這一則送出算的，拿掉之後病人是在不知情的狀態下被計時**；給了兩個補救、**那把尺留著**、沒有自己加回去）；藍灰底帶走「沒有專人」與「看診日前 2 天（不含假日）」——**後者拿掉其實是對的**（這張卡 48 小時才送，期限那時已經過了，它的家是綁定完成那一則）。⚠⚠ **電話做成按鈕不違反 09-04 那條通則** —— 那一條禁的是「說明句裡的號碼穿按鈕的衣服」，而這裡上一句「請致電診所」本身就是叫他現在打。**通則：判斷一個東西該不該做成按鈕，看它上一句話。**⚠ 上一輪那句 `fine`（按了我們會打電話）拿掉了 —— 現在是「請致電診所」在做同一件事，留著會兩句搶同一個位置。⚠ 量測（430／393／390／375／360）：卡片 268.0、高 **563.8**、孤字 0、水平溢出 0、JS 錯誤 0、最寬一行 205.2（可用 240）、八個對比 0 個不過（主鈕 6.62／兩顆線框鈕 8.06／那一句 5.92）、切換條 24.0%／收起 5.1%。⚠⚠ **新版現在比現況矮**（563.8 vs 615）**而且還帶著頭圖** ——上一輪「只多 81px」那句作廢。⚠⚠⚠ **2026-09-04 深夜第四輪：「少了要病患點下去的感覺」**（第 **20-13** 節）——使用者：「原來的版本有說點擊回覆，按鈕上也有手勢提示，你們想一下怎麼弄。」⚠⚠⚠ **拆開來是三件各自獨立的事**（同第九節第 17 條那個淡出）：**①有沒有一句話開口叫他點**（現況有、我們拿掉了，**影響最大** —— 這一則的工作就是「請你回覆」，按鈕再像按鈕也不如一句話直接開口）、**②按鈕上的「往前走」記號**（現況是 👉）、**③按鈕看起來像不像鈕**（現況是藥丸，我們是圓角方框，而**方框在這一站是「框」的語彙**、框不見得等於可以按）。**修一個不會治好另外兩個。**⚠⚠⚠ **還有第四件而且畫面上補不回來**：主鈕是「可點的 box」不是 Flex 的 `button`（button 放不進圖示，而使用者要 logo），**box 沒有按壓效果** —— 「點下去的感覺」有一半是按下那一瞬間的回饋，那一半為了 logo 已經換掉了。⚠ **LINE 對可點的 box 會不會給按壓反白，我們沒有實機驗過**、文件也沒寫 ——**加進廠商那幾題**；「主鈕的形狀」最後一格「真的按鈕（沒 logo）」就是這個取捨，**擺出來讓他比、不是建議**。三條尺 `?c=`／`?g=`／`?s=`，**預設開在建議的那一組**（`c=b`＋`g=main`＋`s=box`）。⚠⚠ **角形用站上自己那一條**（首頁「往下滑」、「回到最上面」、文章卡「繼續讀」同一條，**把 x/y 對調轉成朝右**），**不要打一個「›」** —— 那個字在 Android 與 iOS 上長得不一樣、粗細也對不上。⚠⚠ **筆畫的形狀 `getBBox()` 量不到**（不含 stroke），外框要自己算；產生器的「檔案太小＝空圖」門檻因此從位元組改成**看墨佔多少**（角形只有 21%）。⚠ **角形跟著「字」走不是跟著標誌走**：16px 的字配 11px 高 → 5.3px 寬 ——**三顆圖示的基準各不相同**（nogo 34px 寬跟著標誌、話筒 16.8px 寬＝和主鈕標誌同高），**那不是漏改成一致**。⚠⚠ **現況那句話搬到 268px 會折出孤字「診 ↓」**（三個寬度都是）—— 那句是在**診所端後台 348px 的框**裡看的，**再一次證明病人那一側的寬度要自己量**。⚠ 量到：建議那一組 601.5px（仍比現況 615 矮、而且帶著頭圖）、孤字 0、水平溢出 0、JS 錯誤 0。⚠ **切換條收掉三把已定案的尺**（頭圖／24 小時／就診須知，手機一次只放得下四條），**網址參數仍然吃得到**（`?w=box` 把 24 小時放回來） |
 
 ### 十一之二、⚠⚠ LINE Flex Message 的硬條件（不知道會做出對不上的東西）
 

diff --git a/drafts/channels/README.md b/drafts/channels/README.md
@@ -2874,3 +2874,86 @@ mark-tel.png　 79×79　長寬比 1.0000　墨 40.2%　#2c5238　← index.html
 - **廠商三題**：關鍵字回應／推播送不送得出 Flex Message（最要緊，送不出去
   整個「按按鈕確認」就不成立）、那 24 小時會不會跳過休診日、
   自動取消會不會再通知病人。
+
+### 20-13　2026-09-04 深夜第四輪：「少了要點下去的感覺」
+
+使用者：「目前我很喜歡，不過好像少了要病患點下去的感覺。原來的版本有說點擊回覆，
+按鈕上也有手勢提示，你們想一下怎麼弄。」
+
+#### ⚠⚠⚠ 拆開來是三件各自獨立的事（同第九節第 17 條那個淡出）
+
+現況那張卡**三件都做了**，我們上一版**三件都沒有**：
+
+| | 現況 | 我們 |
+| --- | --- | --- |
+| ① 有沒有一句話**開口叫他點** | 「↓ 請點擊下方按鈕，回覆是否前往看診 ↓」 | 沒有 |
+| ② 按鈕上的「往前走」記號 | 👉 | 沒有 |
+| ③ 按鈕**看起來像不像鈕** | 藥丸 | 圓角方框 |
+
+**修一個不會治好另外兩個**，所以切換條上是三條尺。
+
+・**① 影響最大**：這一則的工作就是「請你回覆」，而**按鈕再像按鈕，也不如一句話直接開口**。
+・**③ 方框在這一站是「框」的語彙**（頁首那三個玻璃框、線稿的框）——**框不見得等於可以按**。
+
+#### ⚠⚠⚠ 還有第四件，而且畫面上補不回來
+
+**我們的主鈕不是 Flex 的 `button`，是「可以點的 box」** —— 因為
+**button 只有一個文字標籤、放不進圖示**（第十一之二節），而使用者要按鈕上有 logo。
+代價就寫在規格裡：**box 沒有 button 內建的按壓效果**。
+
+所以「點下去的感覺」有一半是**按下去那一瞬間的回饋**，那一半我們為了 logo 已經換掉了。
+
+⚠ **老實說：LINE 新版對「可點的 box」會不會給一層淡淡的按壓反白，我們沒有實機驗過**，
+官方文件也沒寫。**這一題按一下就知道 —— 加進廠商那幾題**。
+「主鈕的形狀」那條尺最後一格「**真的按鈕（沒 logo）**」就是這個取捨，
+**擺出來讓他比，不是建議**。
+
+#### 三條尺
+
+```
+① 叫他點的那句  ?c=  不放／請點下面的按鈕回覆／點一下下面的按鈕，讓我們知道喔／現況那句
+② 角形          ?g=  不放／只有主鈕／三顆都放／主鈕用 👉
+③ 主鈕的形狀    ?s=  圓角方框／藥丸／真的按鈕（沒 logo）
+```
+
+**預設就開在建議的那一組**（`c=b`＋`g=main`＋`s=box`）。
+
+⚠⚠ **角形用站上自己那一條，不要打一個「›」** —— 首頁「往下滑」、「回到最上面」、
+文章卡「繼續讀」用的都是同一條（18×9 的 `M1 1l8 7 8-7`、筆畫 1.4、圓頭圓角），
+這裡只是**把 x/y 對調轉成朝右**。打字元的話那個字在 Android 與 iOS 上長得不一樣、
+粗細也對不上站上這一支。成品 `mark-chev-white.png`／`mark-chev-deep.png`，
+由 `remind-marks.mjs` 產。
+
+⚠⚠ **那顆角形是筆畫不是填色，`getBBox()` 量不到它的實際範圍**（不含 stroke）——
+外框要自己算（四面各長出半個筆畫寬）。產生器因此多一個 `box` 欄位讓筆畫那幾顆自己給，
+另外把「檔案太小 ＝ 空圖」那道門檻從位元組改成**看墨佔多少**（角形只有 21%，
+細線的檔案本來就小）。
+
+⚠ **角形的尺寸跟著「字」走不是跟著標誌走**（站上那一族是字高的 .58~.7）：
+16px 的字配 **11px 高**，長寬比 0.4828 算出 **5.3px 寬**。
+—— 對照：nogo 那顆是 34px 寬（跟著標誌），話筒是 16.8px 寬（＝和主鈕的標誌同高）。
+**三顆的基準各不相同，那不是漏改成一致。**
+
+#### 量到的
+
+```
+建議那一組（c=b, g=main）　高 601.5px　孤字 0　水平溢出 0　JS 錯誤 0　角形 5.3×11.0
+　　⚠ 仍然比現況（615px）矮，而且帶著頭圖
+三顆都放（g=all）　　　　　 高 601.5px　孤字 0
+現況那一組（c=asis,g=hand,s=pill）　高 633.3px　⚠ **孤字「診 ↓」**（430／390／360 都是）
+真的按鈕（s=real）　　　　 高 605.5px　⚠ **logo 與角形一起消失**（button 放不進圖示）
+```
+
+⚠⚠ **現況那句話搬到 268px 上會折出孤字** —— 那不是我們畫壞，是那一句本來就是
+在**診所端後台那個 348px 的框**裡看的。**再一次證明「病人那一側的寬度」要自己量。**
+
+#### ⚠ 切換條收掉三把已定案的尺
+
+頭圖／24 小時／就診須知從切換條上拿掉了（同 head-search 那一輪：
+第一輪定案的收成寫死的值、讓位給第二輪的新尺）—— 手機上一次只放得下四條。
+**網址參數 `h`／`w`／`k` 仍然吃得到**，`?w=box` 就把 24 小時那一段放回來。
+
+#### 給廠商那幾題多一題
+
+**可點的 box 在 LINE 上按下去有沒有視覺回饋？**（沒有的話，「按鈕上有 logo」
+這個決定的代價要讓使用者知道，或者退回真的 button。）
